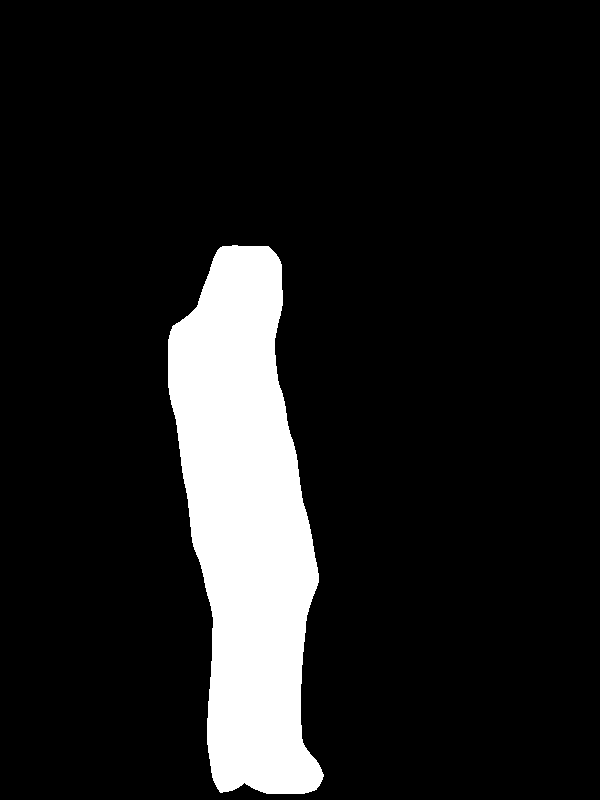
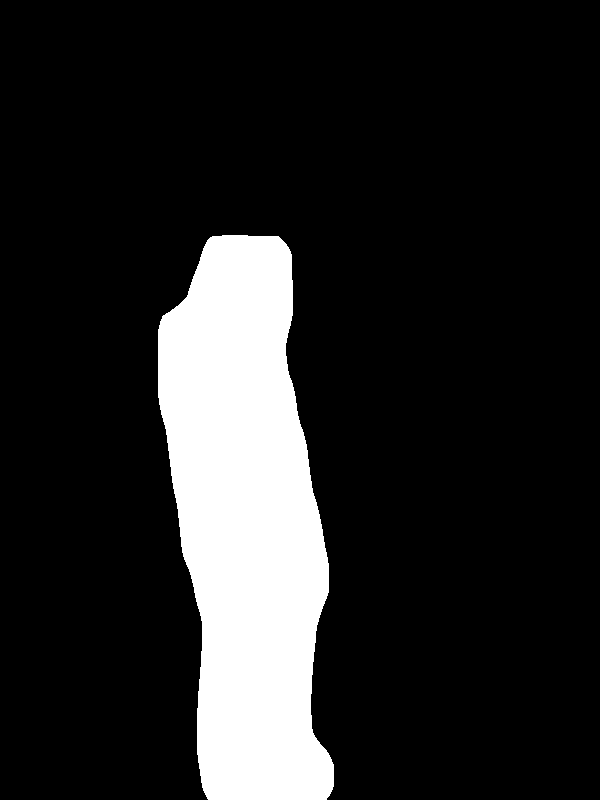
fixed mask size issues

Changed region(s): [[0.24, 0.2812, 0.57, 1.0]]

diff --git a/GAN_inpainting_model/inpainting_pipeline.py b/GAN_inpainting_model/inpainting_pipeline.py
@@ -6,11 +6,10 @@ from scipy.signal import convolve2d
 import numpy as np
 import cv2
 
-def expand_masks(masks):
-	maxval = np.amax(masks)
-	kernel = np.ones((11, 11))
+def expand_masks(masks, ksize):
+	kernel = np.ones((ksize, ksize))
 	expanded = convolve2d(masks, kernel, mode='same')
-	return (expanded >= maxval) * 255
+	return (expanded > 0) * 255
 
 def erase_masks(fpath):
 	x, im = downsize_file(fpath)
@@ -19,7 +18,7 @@ def erase_masks(fpath):
 		compiled_mask = np.amax(masks, axis=0)
 	else:
 		compiled_mask = masks
-	expand_masks(compiled_mask) #convolve with a 11 x 11 kernel to expand masks for inpainting
+	compiled_mask = expand_masks(compiled_mask, 21) #convolve with a 11 x 11 kernel to expand masks for inpainting
 	compiled_mask = np.array([compiled_mask for _ in range(3)])
 	compiled_mask = np.moveaxis(compiled_mask, 0, -1)
 	#compiled_mask = compiled_mask * 255. / np.amax(compiled_mask)
